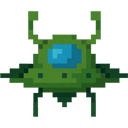
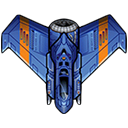
Sprites: updated better sprites

diff --git a/src/main.c b/src/main.c
@@ -40,7 +40,7 @@ float delta = 0;
 
 // Bullets Configuration
 #define BULLETS_AMOUNT 10
-#define BULLETS_RADIUS 10
+#define BULLETS_RADIUS 15
 #define FIRE_COOLDOWN_STANDART_VALUE 0.45f
 #define BULLET_SPAWN_Y_OFFSET -30
 #define BULLET_SPEED 20.0f
@@ -60,13 +60,9 @@ Texture2D player_texture = {0};
 #define PLAYER_TEXTURE_SCALE 0.75
 
 Texture2D alien_texture = {0};
-#define ALIEN_TEXTURE_SCALE 0.5
+#define ALIEN_TEXTURE_SCALE 0.6
 
-void Start() {
-    InitWindow(width, height, "Space-Invaders");
-	InitAudioDevice();
-    SetTargetFPS(60);
-}
+Texture2D fire_bullet = {0};
 
 void GraphicsLoad() {
 	background_texture = LoadTexture("./assets/background.png");
@@ -83,6 +79,12 @@ void GraphicsLoad() {
 	if (alien_texture.id == 0) {
 		TraceLog(LOG_ERROR, "Failed to load aliens_texture");
 	}
+
+	fire_bullet = LoadTexture("./assets/bullet.png");
+	if (fire_bullet.id == 0) {
+		TraceLog(LOG_ERROR, "Failed to load fule_bullet");
+	}
+
 }
 
 void GraphicsFreeMemory() {
@@ -141,6 +143,11 @@ void SoundsFreeMemory() {
 	UnloadSound(game_over);
 }
 
+void Start() {
+    InitWindow(width, height, "Space-Invaders");
+	InitAudioDevice();
+    SetTargetFPS(144);
+}
 
 int main() {
     Start();
@@ -275,10 +282,13 @@ int main() {
 
             case GAME_PLAYING:
 
-                               // Draw bullets
+                // Draw bullets
                 for (int i = 0; i < BULLETS_AMOUNT; i++) {
                     if (!bullets[i].isActive) continue;
-                    DrawCircle(bullets[i].Position.x, bullets[i].Position.y, BULLETS_RADIUS, RED);
+				Vector2 bullet_drawing_position = (Vector2){bullets[i].Position.x - fire_bullet.width / 2 * (float)BULLETS_RADIUS/100,
+															bullets[i].Position.y - fire_bullet.height / 2 * (float)BULLETS_RADIUS/100};
+
+				DrawTextureEx(fire_bullet, bullet_drawing_position, 0.0f, BULLETS_RADIUS/100.0f, WHITE);
                 }
 
                 // Draw enemies
@@ -286,7 +296,7 @@ int main() {
                 if (!enemies[i].isActive) continue;
 				Vector2 alien_drawing_position = (Vector2){enemies[i].Position.x - alien_texture.width / 2 * (float)ALIEN_TEXTURE_SCALE,
 															enemies[i].Position.y - alien_texture.height / 2 * (float)ALIEN_TEXTURE_SCALE};
-				DrawTextureEx(alien_texture, alien_drawing_position, 1, ALIEN_TEXTURE_SCALE, WHITE);
+				DrawTextureEx(alien_texture, alien_drawing_position, 0.0f, ALIEN_TEXTURE_SCALE, WHITE);
 
                 }
 
